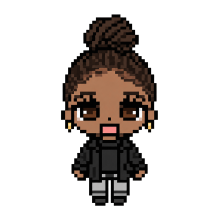
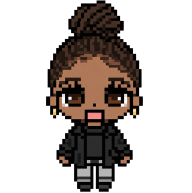
Squad Cards V1.1.12
Content van iedereen in de squad in de visite kaartjes grid gezet en afbeelding van jarellsa gecropped(er zaten nog randen die waren transparant )

Changed region(s): [[0.2188, 0.0, 0.75, 0.9948]]

diff --git a/index.html b/index.html
@@ -44,80 +44,185 @@
                 <img class="kruis" src="assets/kruis.svg">
                 <img src="assets/wesley.png"></a>
 
-                <a href="https://toonicwesley.github.io/your-tribe-profile-card/"><em>test person</em>
+                <a href="https://temhasene.github.io/your-tribe-profile-card/"><em>Ahmet.jpg</em>
                 <img class="knoppen" src="assets/ronde_knoppen.svg">
                 <img class="kruis" src="assets/kruis.svg">
-                <img src="assets/wesley.png"></a>
+                <img src="assets/ahmet.png"></a>
 
-                <a href="https://toonicwesley.github.io/your-tribe-profile-card/"><em>test person</em>
+                <a href="https://aliyaharding.github.io/your-tribe-profile-card/"><em>Aliya.jpg</em>
                 <img class="knoppen" src="assets/ronde_knoppen.svg">
                 <img class="kruis" src="assets/kruis.svg">
-                <img src="assets/wesley.png"></a>
+                <img src="assets/aliya.png"></a>
 
-                <a href="https://toonicwesley.github.io/your-tribe-profile-card/"><em>test person</em>
+                <a href="https://ayalefevere.github.io/your-tribe-profile-card/"><em>Aya.jpg</em>
                 <img class="knoppen" src="assets/ronde_knoppen.svg">
                 <img class="kruis" src="assets/kruis.svg">
-                <img src="assets/wesley.png"></a>
+                <img src="assets/aya.png"></a>
 
-                <a href="https://toonicwesley.github.io/your-tribe-profile-card/"><em>test person</em>
+                <a href="https://beyzaarkan.github.io/your-tribe-profile-card/"><em>Beyza.jpg</em>
                 <img class="knoppen" src="assets/ronde_knoppen.svg">
                 <img class="kruis" src="assets/kruis.svg">
-                <img src="assets/wesley.png"></a>
+                <img src="assets/beyza.png"></a>
 
-                <a href="https://toonicwesley.github.io/your-tribe-profile-card/"><em>test person</em>
+                <a href=""><em>Bounyad.jpg</em>
                 <img class="knoppen" src="assets/ronde_knoppen.svg">
                 <img class="kruis" src="assets/kruis.svg">
-                <img src="assets/wesley.png"></a>
+                <img src="assets/bounyad.png"></a>
 
-                <a href="https://toonicwesley.github.io/your-tribe-profile-card/"><em>test person</em>
+                <a href="https://brittvegt.github.io/your-tribe-profile-card/"><em>Britt.jpg</em>
                 <img class="knoppen" src="assets/ronde_knoppen.svg">
                 <img class="kruis" src="assets/kruis.svg">
-                <img src="assets/wesley.png"></a>
+                <img src="assets/britt.png"></a>
 
-                <a href="https://toonicwesley.github.io/your-tribe-profile-card/"><em>test person</em>
+                <a href="https://celeste0012.github.io/your-tribe-profile-card/"><em>Celeste.jpg</em>
                 <img class="knoppen" src="assets/ronde_knoppen.svg">
                 <img class="kruis" src="assets/kruis.svg">
-                <img src="assets/wesley.png"></a>
+                <img src="assets/celeste.png"></a>
 
-                <a href="https://toonicwesley.github.io/your-tribe-profile-card/"><em>test person</em>
+                <a href="https://chahedddd.github.io/your-tribe-profile-card/"><em>Chahed.jpg</em>
                 <img class="knoppen" src="assets/ronde_knoppen.svg">
                 <img class="kruis" src="assets/kruis.svg">
-                <img src="assets/wesley.png"></a>
+                <img src="assets/chahed.png"></a>
 
-                <a href="https://toonicwesley.github.io/your-tribe-profile-card/"><em>test person</em>
+                <a href="https://davidoo379.github.io/your-tribe-profile-card/"><em>David.jpg</em>
                 <img class="knoppen" src="assets/ronde_knoppen.svg">
                 <img class="kruis" src="assets/kruis.svg">
-                <img src="assets/wesley.png"></a>
+                <img src="assets/david.png"></a>
 
-                <a href="https://toonicwesley.github.io/your-tribe-profile-card/"><em>test person</em>
+                <a href="https://h-mti.github.io/your-tribe-profile-card/"><em>Hajar.jpg</em>
                 <img class="knoppen" src="assets/ronde_knoppen.svg">
                 <img class="kruis" src="assets/kruis.svg">
-                <img src="assets/wesley.png"></a>
+                <img src="assets/hajar.png"></a>
 
-                <a href="https://toonicwesley.github.io/your-tribe-profile-card/"><em>test person</em>
+                <a href="https://js5603.github.io/your-tribe-profile-card/"><em>Jarellsa.jpg</em>
                 <img class="knoppen" src="assets/ronde_knoppen.svg">
                 <img class="kruis" src="assets/kruis.svg">
-                <img src="assets/wesley.png"></a>
+                <img src="assets/jarellsa.png"></a>
 
-                <a href="https://toonicwesley.github.io/your-tribe-profile-card/"><em>test person</em>
+                <a href="https://jesperkoning1.github.io/your-tribe-profile-card/"><em>Jesper.jpg</em>
                 <img class="knoppen" src="assets/ronde_knoppen.svg">
                 <img class="kruis" src="assets/kruis.svg">
-                <img src="assets/wesley.png"></a>
+                <img src="assets/jesper.png"></a>
 
-                <a href="https://toonicwesley.github.io/your-tribe-profile-card/"><em>test person</em>
+                <a href="https://s2108887.github.io/your-tribe-profile-card/"><em>Joost.jpg</em>
                 <img class="knoppen" src="assets/ronde_knoppen.svg">
                 <img class="kruis" src="assets/kruis.svg">
-                <img src="assets/wesley.png"></a>
+                <img src="assets/joost.png"></a>
 
-                <a href="https://toonicwesley.github.io/your-tribe-profile-card/"><em>test person</em>
+                <a href="https://justinverbon1234.github.io/your-tribe-profile-card/"><em>Justin.jpg</em>
                 <img class="knoppen" src="assets/ronde_knoppen.svg">
                 <img class="kruis" src="assets/kruis.svg">
-                <img src="assets/wesley.png"></a>
+                <img src="assets/justin.png"></a>
 
-                <a href="https://toonicwesley.github.io/your-tribe-profile-card/"><em>test person</em>
+                <a href="https://loisaantjes.github.io/your-tribe-profile-card/"><em>Lois.jpg</em>
                 <img class="knoppen" src="assets/ronde_knoppen.svg">
                 <img class="kruis" src="assets/kruis.svg">
-                <img src="assets/wesley.png"></a>
+                <img src="assets/lois.png"></a>
+
+                <a href="https://louavb.github.io/your-tribe-profile-card/"><em>Lou.jpg</em>
+                <img class="knoppen" src="assets/ronde_knoppen.svg">
+                <img class="kruis" src="assets/kruis.svg">
+                <img src="assets/lou.png"></a>
+
+                <a href="https://lyannebos.github.io/your-tribe-profile-card/"><em>Layenne.jpg</em>
+                <img class="knoppen" src="assets/ronde_knoppen.svg">
+                <img class="kruis" src="assets/kruis.svg">
+                <img src="assets/lyanne.png"></a>
+
+                <a href="https://lyndsey07.github.io/your-tribe-profile-card/"><em>Lyndsey.jpg</em>
+                <img class="knoppen" src="assets/ronde_knoppen.svg">
+                <img class="kruis" src="assets/kruis.svg">
+                <img src="assets/lyndsey.png"></a>
+
+                <a href="https://melis5016.github.io/your-tribe-profile-card/"><em>Melissa.jpg</em>
+                <img class="knoppen" src="assets/ronde_knoppen.svg">
+                <img class="kruis" src="assets/kruis.svg">
+                <img src="assets/melissa.png"></a>
+
+                <a href="https://mikahartono007.github.io/your-tribe-profile-card/"><em>Mika.jpg</em>
+                <img class="knoppen" src="assets/ronde_knoppen.svg">
+                <img class="kruis" src="assets/kruis.svg">
+                <img src="assets/mika.png"></a>
+
+                <a href="hhttps://m1riale.github.io/your-tribe-profile-card/"><em>Miriale.jpg</em>
+                <img class="knoppen" src="assets/ronde_knoppen.svg">
+                <img class="kruis" src="assets/kruis.svg">
+                <img src="assets/miriale.png"></a>
+
+                <a href="https://noeyoo26.github.io/your-tribe-profile-card/"><em>Noey.jpg</em>
+                <img class="knoppen" src="assets/ronde_knoppen.svg">
+                <img class="kruis" src="assets/kruis.svg">
+                <img src="assets/noey.png"></a>
+
+                <a href="https://queeny2003.github.io/your-tribe-profile-card/"><em>Queeny.jpg</em>
+                <img class="knoppen" src="assets/ronde_knoppen.svg">
+                <img class="kruis" src="assets/kruis.svg">
+                <img src="assets/queeny.png"></a>
+
+                <a href="https://rayhana7.github.io/your-tribe-profile-card/"><em>Rayhana.jpg</em>
+                <img class="knoppen" src="assets/ronde_knoppen.svg">
+                <img class="kruis" src="assets/kruis.svg">
+                <img src="assets/rayhana.png"></a>
+
+                <a href="https://rickd377.github.io/your-tribe-profile-card/"><em>Rick.jpg</em>
+                <img class="knoppen" src="assets/ronde_knoppen.svg">
+                <img class="kruis" src="assets/kruis.svg">
+                <img src="assets/rick.png"></a>
+
+                <a href="https://rosavandenbos.github.io/your-tribe-profile-card/"><em>Rosa.jpg</em>
+                <img class="knoppen" src="assets/ronde_knoppen.svg">
+                <img class="kruis" src="assets/kruis.svg">
+                <img src="assets/rosa.png"></a>
+
+                <a href="https://rowynn-eu.github.io/fdnd-profile-card/"><em>Rownynn.jpg</em>
+                <img class="knoppen" src="assets/ronde_knoppen.svg">
+                <img class="kruis" src="assets/kruis.svg">
+                <img src="assets/rownynn.png"></a>
+
+                <a href="https://sambalsamss.github.io/your-tribe-profile-card/"><em>Sam.jpg</em>
+                <img class="knoppen" src="assets/ronde_knoppen.svg">
+                <img class="kruis" src="assets/kruis.svg">
+                <img src="assets/sam.png"></a>
+
+                <a href="https://samielb.github.io/your-tribe-profile-card/"><em>Sami.jpg</em>
+                <img class="knoppen" src="assets/ronde_knoppen.svg">
+                <img class="kruis" src="assets/kruis.svg">
+                <img src="assets/sami.png"></a>
+
+                <a href="https://sophieediepenmaat.github.io/your-tribe-profile-card/"><em>Sophie.jpg</em>
+                <img class="knoppen" src="assets/ronde_knoppen.svg">
+                <img class="kruis" src="assets/kruis.svg">
+                <img src="assets/sophie.png"></a>
+
+                <a href="https://stldevelopment.github.io/your-tribe-profile-card/"><em>Sun.jpg</em>
+                <img class="knoppen" src="assets/ronde_knoppen.svg">
+                <img class="kruis" src="assets/kruis.svg">
+                <img src="assets/sun.png"></a>
+
+                <a href="https://thijs-fdnd.github.io/your-tribe-profile-card/"><em>Thijs.jpg</em>
+                <img class="knoppen" src="assets/ronde_knoppen.svg">
+                <img class="kruis" src="assets/kruis.svg">
+                <img src="assets/thijs.png"></a>
+
+                <a href="h"><em>Yigal.jpg</em>
+                <img class="knoppen" src="assets/ronde_knoppen.svg">
+                <img class="kruis" src="assets/kruis.svg">
+                <img src="assets/Yigal.png"></a>
+
+                <a href="https://youneselkharraz.github.io/i-love-web/"><em>Younes.jpg</em>
+                <img class="knoppen" src="assets/ronde_knoppen.svg">
+                <img class="kruis" src="assets/kruis.svg">
+                <img src="assets/younes.png"></a>
+
+                <a href="https://xinjuliette.github.io/your-tribe-profile-card/"><em>Xin.jpg</em>
+                <img class="knoppen" src="assets/ronde_knoppen.svg">
+                <img class="kruis" src="assets/kruis.svg">
+                <img src="assets/lois.png"></a>
+
+                <a href="https://emmatje.github.io/your-tribe-profile-card/"><em>Emmanuel</em>
+                <img class="knoppen" src="assets/ronde_knoppen.svg">
+                <img class="kruis" src="assets/kruis.svg">
+                <img src="assets/sam.png"></a>
         </ul>
     </section>
 </body>

diff --git a/styles/styles.css b/styles/styles.css
@@ -220,5 +220,5 @@ padding: 5%;
 
 /* footer */
 footer{
-    margin-top: 20%;
+    margin-top: 65%;
 }
